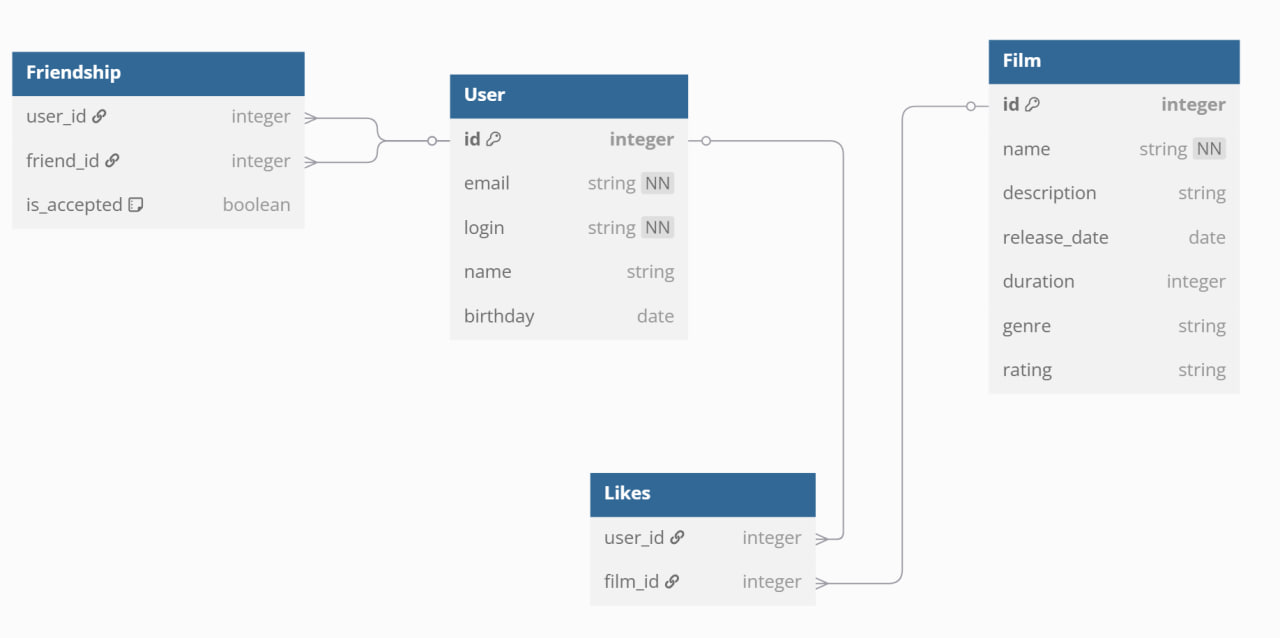
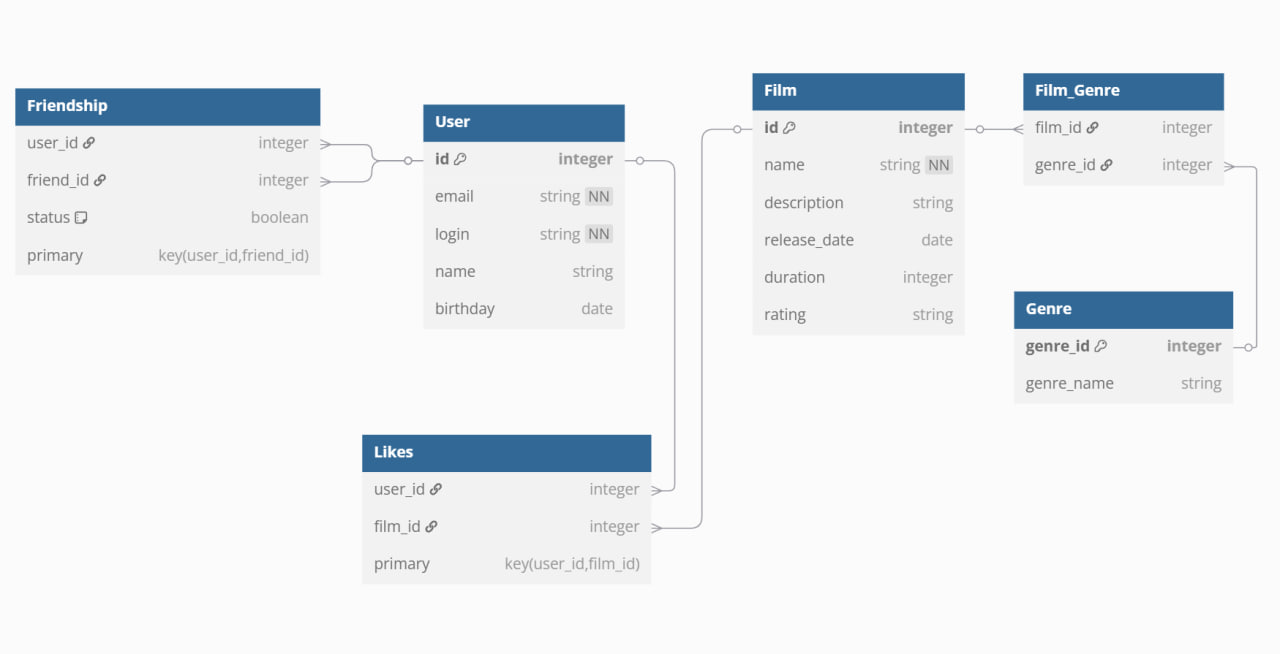
rebuild scheme

diff --git a/src/main/java/ru/yandex/practicum/filmorate/model/Film.java b/src/main/java/ru/yandex/practicum/filmorate/model/Film.java
@@ -20,7 +20,7 @@ public class Film {
     @Min(value = 0, message = "Film duration is negative")
     private int duration;
     private Set<Integer> whoLiked;
-    private String genre;
+    private Set<Genre> genre;
     private Rating rating;
 
     public Film() {

diff --git a/src/main/java/ru/yandex/practicum/filmorate/model/Genre.java b/src/main/java/ru/yandex/practicum/filmorate/model/Genre.java
@@ -1,0 +1,10 @@
+package ru.yandex.practicum.filmorate.model;
+
+public enum Genre {
+    Comedy,
+    Drama,
+    Cartoon,
+    Thriller,
+    Documentary,
+    Action
+}

diff --git a/README.md b/README.md
@@ -1,3 +1,4 @@
 # java-filmorate
+
 Template repository for Filmorate project.
 DB scheme - /storage-scheme.jpg
